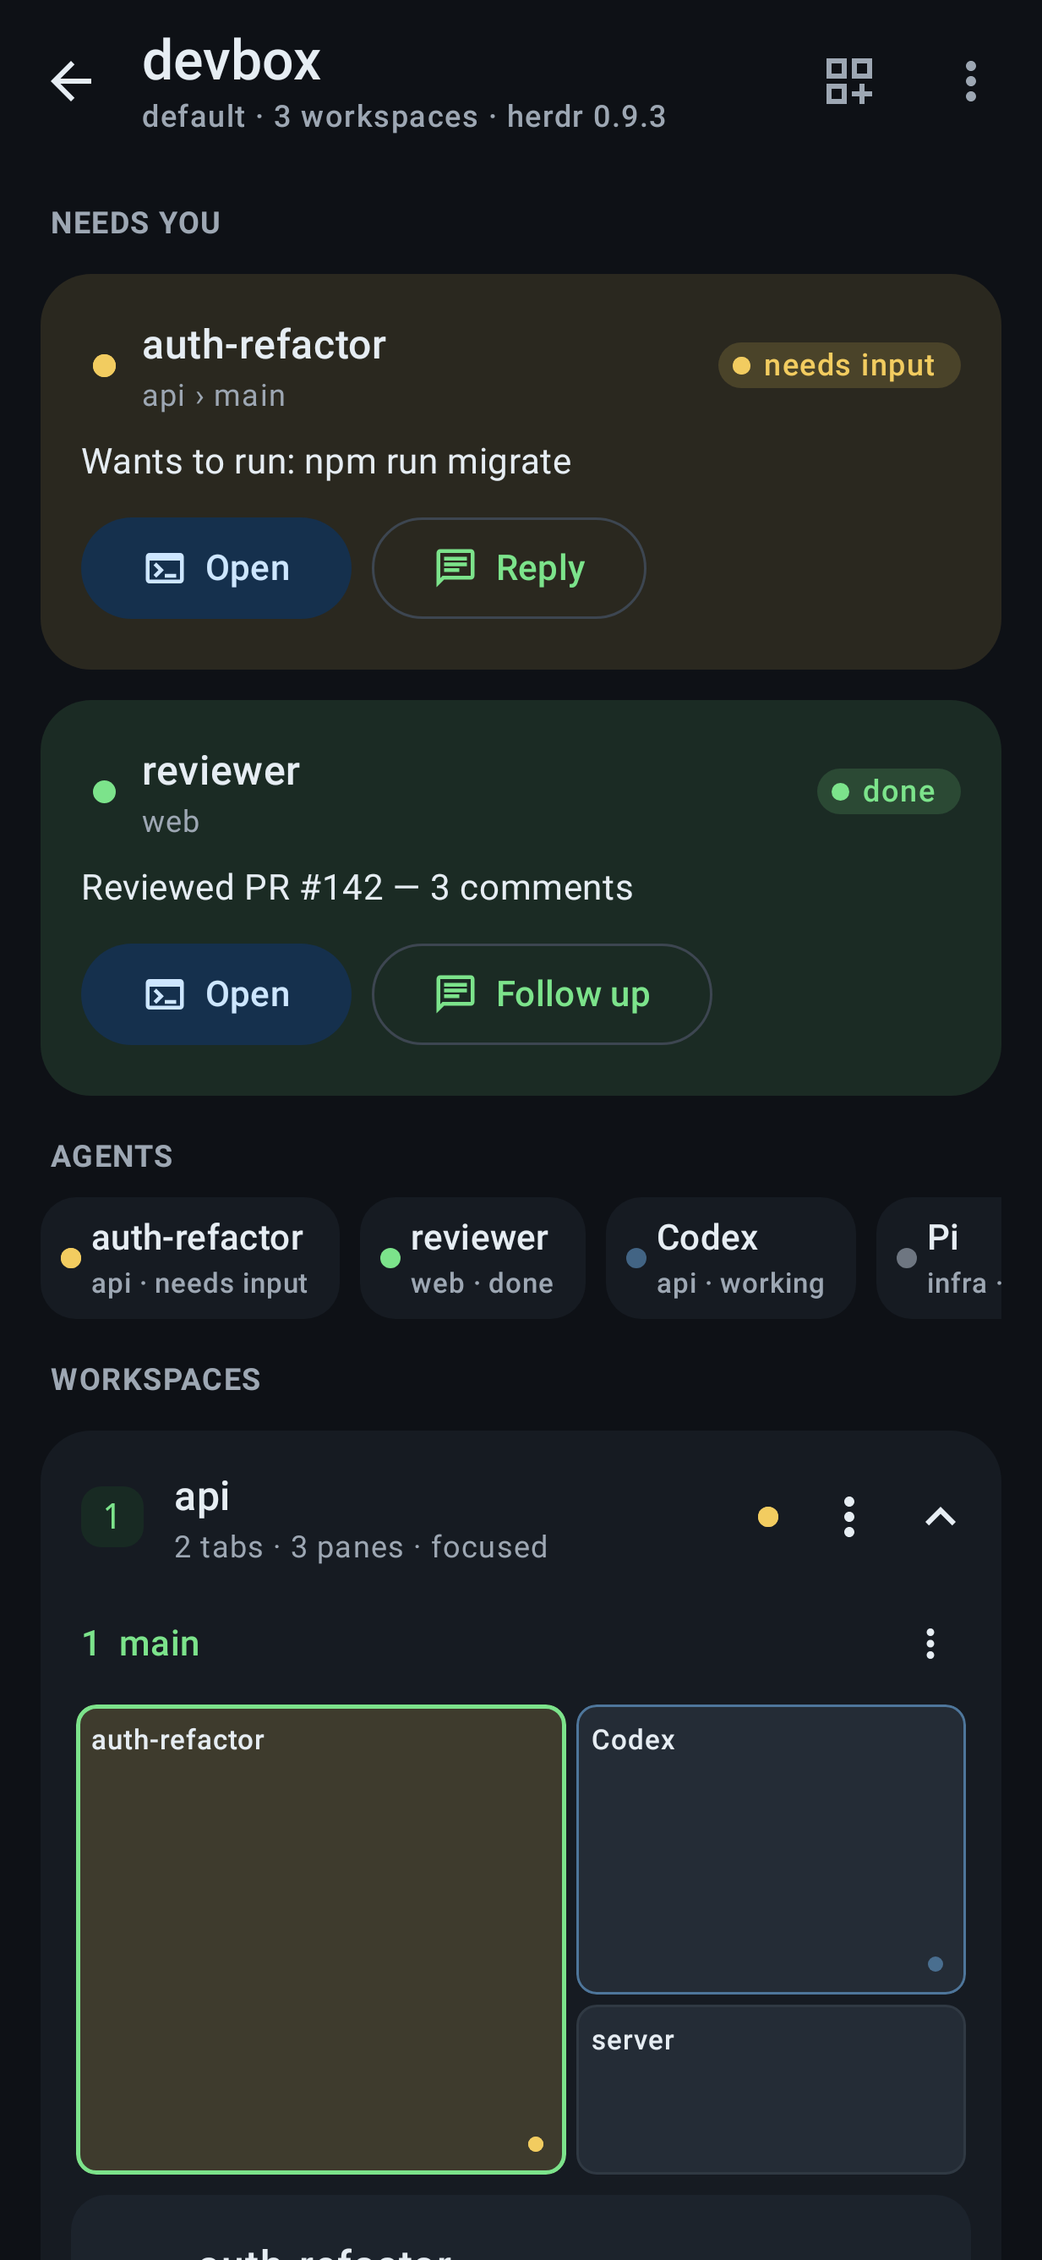
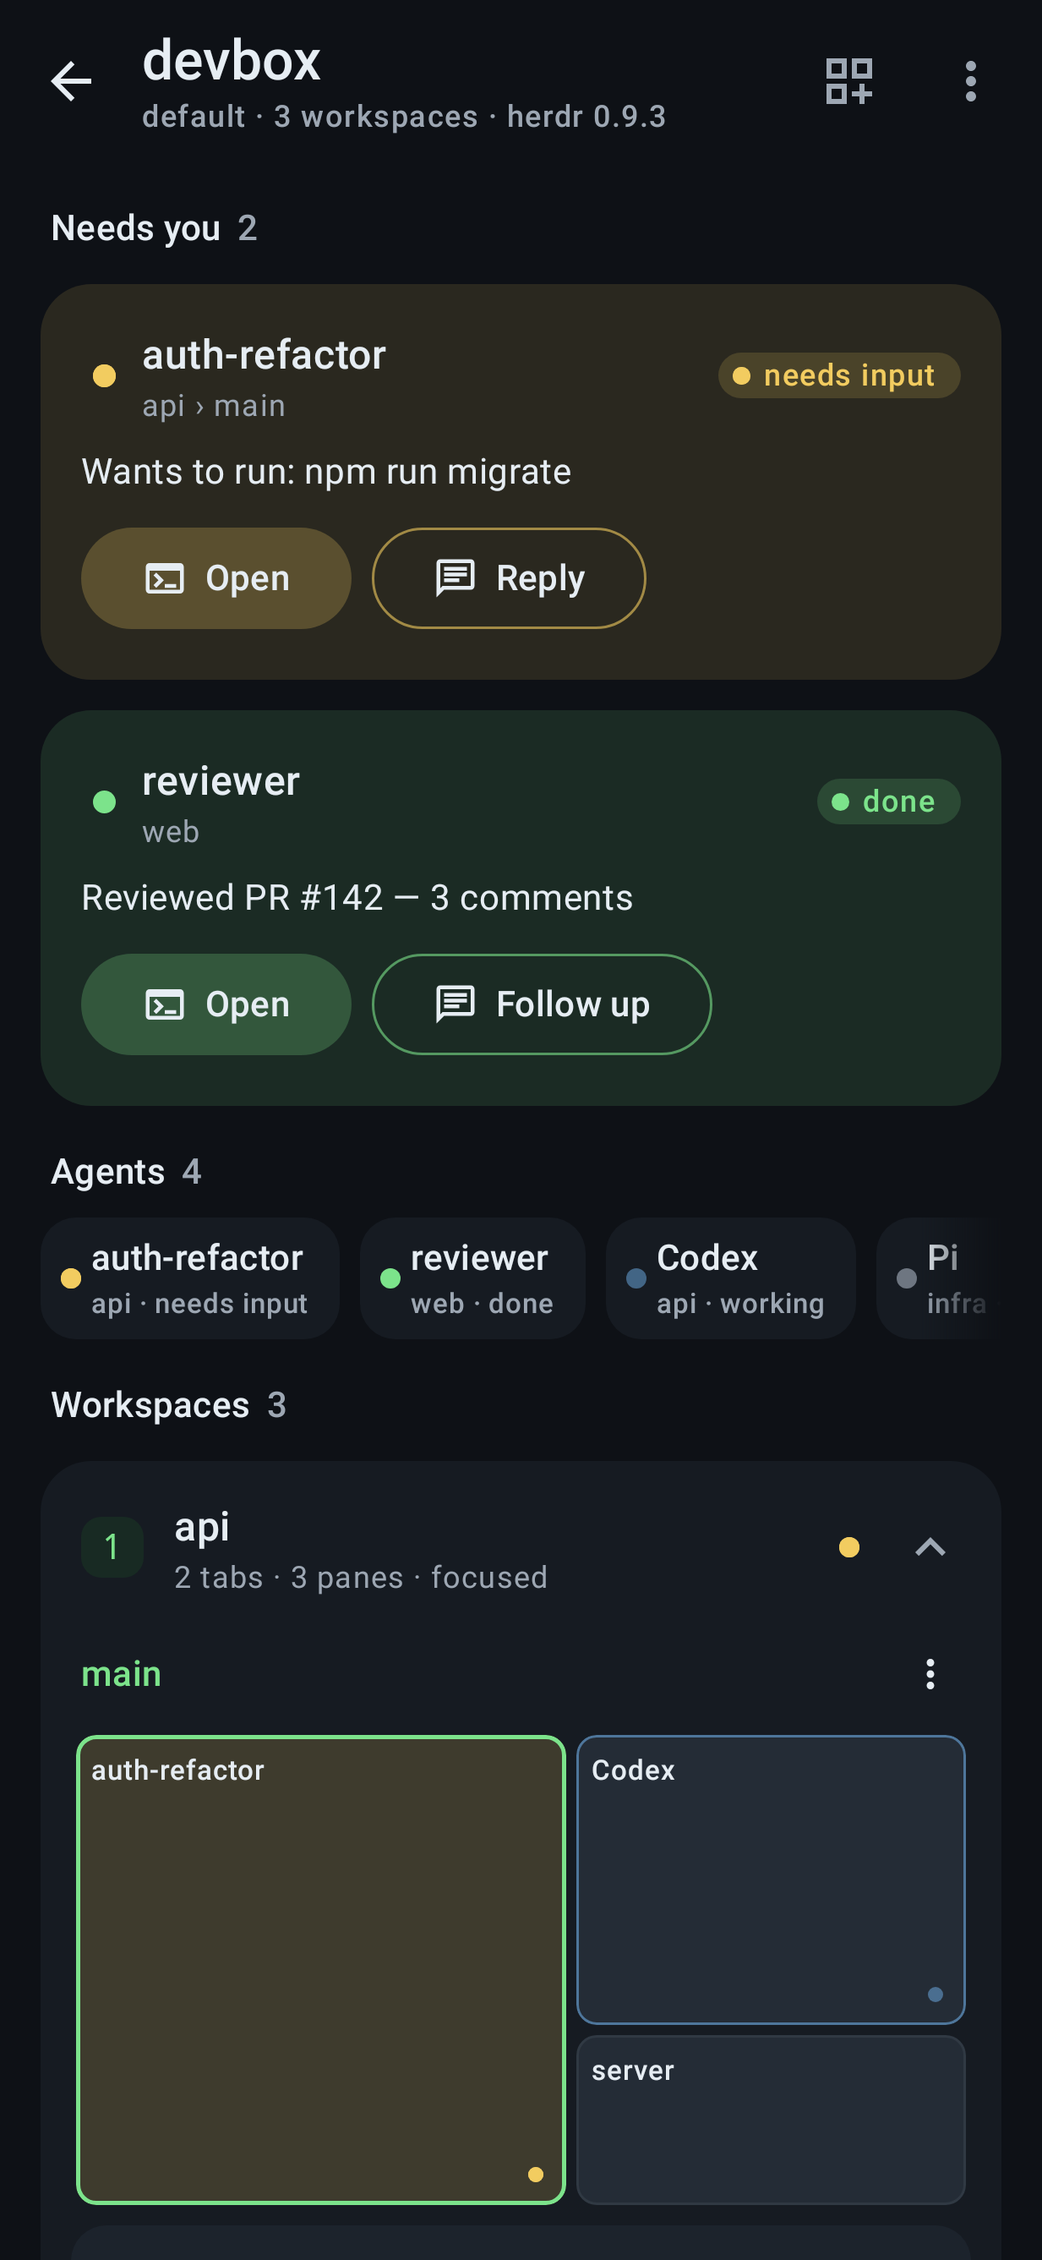
Polish session and terminal visuals
- Pluralize tab/pane/workspace counts ("1 tab · 1 pane").
- Show tabs by herdr's positional label ("Tab 2"), not the internal
  tab number, which made headers read "6  2".
- Drop redundant breadcrumb parts ("awp-aura › 1 › awp-aura").
- Keep the terminal screen dark in light mode, with light bar icons.
- Tint attention-card actions with the agent's status color.
- Workspace rows: tap to expand, long-press for actions; drop the ⋮.
- Fade the scrolling edge of the agent strip and pane switcher.
- Sentence-case section labels with counts.
- Regenerate README screenshots.

diff --git a/app/src/main/java/dev/herdroid/ui/session/SessionScreen.kt b/app/src/main/java/dev/herdroid/ui/session/SessionScreen.kt
@@ -3,6 +3,7 @@ package dev.herdroid.ui.session
 import android.widget.Toast
 import androidx.compose.animation.AnimatedVisibility
 import androidx.compose.animation.animateContentSize
+import androidx.compose.foundation.BorderStroke
 import androidx.compose.foundation.ExperimentalFoundationApi
 import androidx.compose.foundation.background
 import androidx.compose.foundation.clickable
@@ -21,6 +22,7 @@ import androidx.compose.foundation.layout.size
 import androidx.compose.foundation.lazy.LazyColumn
 import androidx.compose.foundation.lazy.LazyRow
 import androidx.compose.foundation.lazy.items
+import androidx.compose.foundation.lazy.rememberLazyListState
 import androidx.compose.foundation.shape.RoundedCornerShape
 import androidx.compose.material.icons.Icons
 import androidx.compose.material.icons.automirrored.outlined.ArrowBack
@@ -39,6 +41,7 @@ import androidx.compose.material.icons.outlined.Terminal
 import androidx.compose.material.icons.outlined.ViewAgenda
 import androidx.compose.material.icons.outlined.ViewColumn
 import androidx.compose.material.icons.outlined.Workspaces
+import androidx.compose.material3.ButtonDefaults
 import androidx.compose.material3.Card
 import androidx.compose.material3.CardDefaults
 import androidx.compose.material3.DropdownMenu
@@ -90,6 +93,7 @@ import dev.herdroid.ui.components.ConnectionPrompts
 import dev.herdroid.ui.components.EmptyState
 import dev.herdroid.ui.components.FieldSpec
 import dev.herdroid.ui.components.FormDialog
+import dev.herdroid.ui.components.fadingEdges
 import dev.herdroid.ui.components.StatusDot
 import dev.herdroid.ui.components.StatusPill
 import dev.herdroid.ui.theme.LocalStatusColors
@@ -273,20 +277,20 @@ fun SessionScreen(
         ) { (label) -> dialog = null; act("Rename") { renameWorkspace(d.workspace.workspaceId, label) } }
         is SessionDialog.CloseWorkspace -> ConfirmDialog(
             title = "Close ${d.workspace.label}?",
-            body = "Closes ${d.workspace.tabCount} tabs and ${d.workspace.paneCount} panes, stopping their processes.",
+            body = "Closes ${count(d.workspace.tabCount, "tab")} and ${count(d.workspace.paneCount, "pane")}, stopping their processes.",
             confirm = "Close workspace",
             onDismiss = { dialog = null },
         ) { act("Close workspace") { closeWorkspace(d.workspace.workspaceId) } }
         is SessionDialog.RenameTab -> FormDialog(
             title = "Rename tab",
-            fields = listOf(FieldSpec("Name", d.tab.label)),
+            fields = listOf(FieldSpec("Name", d.tab.label.takeIf { d.tab.hasCustomLabel }.orEmpty())),
             confirm = "Rename",
             requireFirst = true,
             onDismiss = { dialog = null },
         ) { (label) -> dialog = null; act("Rename") { renameTab(d.tab.tabId, label) } }
         is SessionDialog.CloseTab -> ConfirmDialog(
-            title = "Close tab ${d.tab.label}?",
-            body = "Closes ${d.tab.paneCount} panes and stops their processes.",
+            title = "Close ${d.tab.displayLabel}?",
+            body = "Closes ${count(d.tab.paneCount, "pane")} and stops their processes.",
             confirm = "Close tab",
             onDismiss = { dialog = null },
         ) { act("Close tab") { closeTab(d.tab.tabId) } }
@@ -310,7 +314,7 @@ private fun subtitle(status: ConnectionStatus, snapshot: SessionSnapshot?, conne
         ConnectionStatus.Connected -> buildString {
             append(connection.profile.session)
             snapshot?.let {
-                append(" · ").append(it.workspaces.size).append(" workspaces")
+                append(" · ").append(count(it.workspaces.size, "workspace"))
                 if (it.version.isNotBlank()) append(" · herdr ").append(it.version)
             }
         }
@@ -356,7 +360,7 @@ internal fun SessionContent(
         verticalArrangement = Arrangement.spacedBy(12.dp),
     ) {
         if (attention.isNotEmpty()) {
-            item(key = "attention-title") { SectionLabel("Needs you") }
+            item(key = "attention-title") { SectionLabel("Needs you", attention.size) }
             items(attention, key = { "att-" + it.paneId }) { agent ->
                 AttentionCard(
                     agent = agent,
@@ -370,8 +374,13 @@ internal fun SessionContent(
         if (snapshot.agents.isNotEmpty()) {
             item(key = "agents") {
                 Column(verticalArrangement = Arrangement.spacedBy(8.dp)) {
-                    SectionLabel("Agents")
-                    LazyRow(horizontalArrangement = Arrangement.spacedBy(8.dp)) {
+                    SectionLabel("Agents", snapshot.agents.size)
+                    val rowState = rememberLazyListState()
+                    LazyRow(
+                        state = rowState,
+                        modifier = Modifier.fadingEdges(rowState),
+                        horizontalArrangement = Arrangement.spacedBy(8.dp),
+                    ) {
                         items(snapshot.agentsByAttention, key = { "chip-" + it.paneId }) { agent ->
                             AgentChip(agent, snapshot.workspace(agent.workspaceId)) { onOpenPane(agent.paneId) }
                         }
@@ -379,7 +388,7 @@ internal fun SessionContent(
                 }
             }
         }
-        item(key = "ws-title") { SectionLabel("Workspaces") }
+        item(key = "ws-title") { SectionLabel("Workspaces", snapshot.workspaces.size) }
         items(snapshot.workspaces, key = { "ws-" + it.workspaceId }) { workspace ->
             val isExpanded = expanded[workspace.workspaceId]
                 ?: (workspace.focused || snapshot.workspaces.size <= 2 ||
@@ -399,15 +408,33 @@ internal fun SessionContent(
     }
 }
 
+internal fun count(n: Int, noun: String) = if (n == 1) "1 $noun" else "$n ${noun}s"
+
+/**
+ * "workspace › tab › extra", skipping parts that add nothing: the tab when it has herdr's default
+ * numeric label and is the workspace's only tab, and repeats (a cwd named like its workspace).
+ */
+internal fun breadcrumb(workspace: WorkspaceInfo?, tab: TabInfo?, extra: String? = null): String =
+    listOfNotNull(
+        workspace?.label?.takeIf { it.isNotBlank() },
+        tab?.takeIf { it.hasCustomLabel || (workspace?.tabCount ?: 0) > 1 }?.displayLabel,
+        extra?.takeIf { it.isNotBlank() },
+    ).distinct().joinToString(" › ")
+
 @Composable
-private fun SectionLabel(text: String) {
-    Text(
-        text.uppercase(),
-        style = MaterialTheme.typography.labelMedium,
-        color = MaterialTheme.colorScheme.onSurfaceVariant,
-        fontWeight = FontWeight.Bold,
-        modifier = Modifier.padding(top = 4.dp, start = 4.dp),
-    )
+private fun SectionLabel(text: String, count: Int) {
+    Row(
+        Modifier.padding(top = 4.dp, start = 4.dp),
+        horizontalArrangement = Arrangement.spacedBy(6.dp),
+        verticalAlignment = Alignment.Bottom,
+    ) {
+        Text(text, style = MaterialTheme.typography.titleSmall, fontWeight = FontWeight.SemiBold)
+        Text(
+            count.toString(),
+            style = MaterialTheme.typography.titleSmall,
+            color = MaterialTheme.colorScheme.onSurfaceVariant,
+        )
+    }
 }
 
 @Composable
@@ -431,7 +458,7 @@ private fun AttentionCard(
                 Column(Modifier.weight(1f)) {
                     Text(agent.displayName, style = MaterialTheme.typography.titleMedium)
                     Text(
-                        listOfNotNull(workspace?.label, tab?.label?.takeIf { it.isNotBlank() }).joinToString(" › "),
+                        breadcrumb(workspace, tab),
                         style = MaterialTheme.typography.bodySmall,
                         color = MaterialTheme.colorScheme.onSurfaceVariant,
                     )
@@ -441,13 +468,24 @@ private fun AttentionCard(
             agent.subtitle?.let {
                 Text(it, style = MaterialTheme.typography.bodyMedium, maxLines = 2, overflow = TextOverflow.Ellipsis)
             }
+            // Both actions take the agent's status color so they read as one pair.
             Row(horizontalArrangement = Arrangement.spacedBy(8.dp)) {
-                FilledTonalButton(onClick = onOpen) {
+                FilledTonalButton(
+                    onClick = onOpen,
+                    colors = ButtonDefaults.filledTonalButtonColors(
+                        containerColor = color.copy(alpha = 0.24f),
+                        contentColor = MaterialTheme.colorScheme.onSurface,
+                    ),
+                ) {
                     Icon(Icons.Outlined.Terminal, null, Modifier.size(18.dp))
                     Text("  Open")
                 }
                 if (agent.agentStatus == AgentStatus.BLOCKED || agent.agentStatus == AgentStatus.DONE) {
-                    OutlinedButton(onClick = onReply) {
+                    OutlinedButton(
+                        onClick = onReply,
+                        colors = ButtonDefaults.outlinedButtonColors(contentColor = MaterialTheme.colorScheme.onSurface),
+                        border = BorderStroke(1.dp, color.copy(alpha = 0.6f)),
+                    ) {
                         Icon(Icons.AutoMirrored.Outlined.Chat, null, Modifier.size(18.dp))
                         Text(if (agent.agentStatus == AgentStatus.BLOCKED) "  Reply" else "  Follow up")
                     }
@@ -501,8 +539,13 @@ private fun WorkspaceCard(
         Row(
             Modifier
                 .fillMaxWidth()
-                .clickable(onClick = onToggle)
-                .padding(start = 16.dp, end = 4.dp, top = 10.dp, bottom = 10.dp),
+                .combinedClickable(
+                    onClickLabel = if (expanded) "Collapse" else "Expand",
+                    onLongClickLabel = "Workspace actions",
+                    onLongClick = { menu = true },
+                    onClick = onToggle,
+                )
+                .padding(start = 16.dp, end = 4.dp, top = 14.dp, bottom = 14.dp),
             verticalAlignment = Alignment.CenterVertically,
         ) {
             Text(
@@ -518,7 +561,7 @@ private fun WorkspaceCard(
             Column(Modifier.weight(1f).padding(horizontal = 12.dp)) {
                 Text(workspace.label.ifBlank { "workspace ${workspace.number}" }, style = MaterialTheme.typography.titleMedium, maxLines = 1)
                 Text(
-                    "${workspace.tabCount} tabs · ${workspace.paneCount} panes" +
+                    "${count(workspace.tabCount, "tab")} · ${count(workspace.paneCount, "pane")}" +
                         if (workspace.focused) " · focused" else "",
                     style = MaterialTheme.typography.bodySmall,
                     color = MaterialTheme.colorScheme.onSurfaceVariant,
@@ -526,9 +569,14 @@ private fun WorkspaceCard(
             }
             if (workspace.agentStatus != AgentStatus.UNKNOWN && workspace.agentStatus != AgentStatus.IDLE) {
                 StatusDot(workspace.agentStatus, size = 8.dp)
+                Spacer(Modifier.size(12.dp))
             }
             Box {
-                IconButton(onClick = { menu = true }) { Icon(Icons.Outlined.MoreVert, "Workspace actions") }
+                Icon(
+                    if (expanded) Icons.Outlined.ExpandLess else Icons.Outlined.ExpandMore,
+                    null,
+                    tint = MaterialTheme.colorScheme.onSurfaceVariant,
+                )
                 DropdownMenu(expanded = menu, onDismissRequest = { menu = false }) {
                     DropdownMenuItem(
                         text = { Text("New tab") },
@@ -547,8 +595,7 @@ private fun WorkspaceCard(
                     )
                 }
             }
-            Icon(if (expanded) Icons.Outlined.ExpandLess else Icons.Outlined.ExpandMore, null)
-            Spacer(Modifier.size(8.dp))
+            Spacer(Modifier.size(12.dp))
         }
         AnimatedVisibility(expanded) {
             Column(Modifier.padding(start = 12.dp, end = 12.dp, bottom = 12.dp)) {
@@ -576,7 +623,7 @@ private fun TabSection(
     Column(verticalArrangement = Arrangement.spacedBy(6.dp)) {
         Row(verticalAlignment = Alignment.CenterVertically, modifier = Modifier.padding(start = 4.dp)) {
             Text(
-                "${tab.number}  ${tab.label.ifBlank { "tab" }}",
+                tab.displayLabel,
                 style = MaterialTheme.typography.labelLarge,
                 color = if (tab.focused) MaterialTheme.colorScheme.primary else MaterialTheme.colorScheme.onSurfaceVariant,
                 modifier = Modifier.weight(1f),

diff --git a/app/src/main/java/dev/herdroid/ui/terminal/TerminalScreen.kt b/app/src/main/java/dev/herdroid/ui/terminal/TerminalScreen.kt
@@ -73,10 +73,12 @@ import androidx.compose.ui.Alignment
 import androidx.compose.ui.Modifier
 import androidx.compose.ui.platform.LocalClipboardManager
 import androidx.compose.ui.platform.LocalContext
+import androidx.compose.ui.platform.LocalView
 import androidx.compose.ui.text.AnnotatedString
 import androidx.compose.ui.text.style.TextOverflow
 import androidx.compose.ui.unit.dp
 import androidx.compose.ui.viewinterop.AndroidView
+import androidx.core.view.WindowCompat
 import dev.herdroid.app
 import dev.herdroid.connection.ConnectionStatus
 import dev.herdroid.herdr.AgentStatus
@@ -93,13 +95,48 @@ import dev.herdroid.ui.components.FieldSpec
 import dev.herdroid.ui.components.FormDialog
 import dev.herdroid.ui.components.StatusDot
 import dev.herdroid.ui.components.StatusPill
+import dev.herdroid.ui.components.fadingEdges
 import dev.herdroid.ui.session.SheetItem
+import dev.herdroid.ui.session.breadcrumb
+import dev.herdroid.ui.theme.HerdroidTheme
 import dev.herdroid.ui.theme.Mono
 import kotlinx.coroutines.launch
 
-@OptIn(ExperimentalMaterial3Api::class)
+/**
+ * The terminal is always dark, whatever the system theme: light chrome around a dark terminal
+ * reads as two different apps.
+ */
 @Composable
 fun TerminalScreen(
+    hostId: String,
+    initialPaneId: String,
+    onBack: () -> Unit,
+    onEditHost: () -> Unit,
+) {
+    val view = LocalView.current
+    DisposableEffect(view) {
+        val window = (view.context as? Activity)?.window
+        val bars = window?.let { WindowCompat.getInsetsController(it, view) }
+        val lightStatus = bars?.isAppearanceLightStatusBars
+        val lightNavigation = bars?.isAppearanceLightNavigationBars
+        bars?.isAppearanceLightStatusBars = false
+        bars?.isAppearanceLightNavigationBars = false
+        onDispose {
+            lightStatus?.let { bars.isAppearanceLightStatusBars = it }
+            lightNavigation?.let { bars.isAppearanceLightNavigationBars = it }
+        }
+    }
+    HerdroidTheme(darkTheme = true) {
+        // Surface resets LocalContentColor, which otherwise leaks in from the app's light theme.
+        Surface(color = MaterialTheme.colorScheme.surface) {
+            TerminalScreenContent(hostId, initialPaneId, onBack, onEditHost)
+        }
+    }
+}
+
+@OptIn(ExperimentalMaterial3Api::class)
+@Composable
+private fun TerminalScreenContent(
     hostId: String,
     initialPaneId: String,
     onBack: () -> Unit,
@@ -404,10 +441,8 @@ internal fun TerminalTopBar(
                 maxLines = 1,
                 overflow = TextOverflow.Ellipsis,
             )
-            val ws = pane?.let { snapshot?.workspace(it.workspaceId)?.label }
-            val tab = pane?.let { snapshot?.tab(it.tabId)?.label }
             Text(
-                listOfNotNull(ws, tab?.takeIf { it.isNotBlank() }, pane?.shortCwd).joinToString(" › "),
+                pane?.let { breadcrumb(snapshot?.workspace(it.workspaceId), snapshot?.tab(it.tabId), it.shortCwd) }.orEmpty(),
                 style = MaterialTheme.typography.labelSmall,
                 color = MaterialTheme.colorScheme.onSurfaceVariant,
                 maxLines = 1,
@@ -454,6 +489,7 @@ internal fun PaneSwitcher(snapshot: SessionSnapshot, current: PaneInfo, onSelect
     val listState = rememberLazyListState()
     LazyRow(
         state = listState,
+        modifier = Modifier.fadingEdges(listState),
         contentPadding = PaddingValues(horizontal = 12.dp, vertical = 4.dp),
         horizontalArrangement = Arrangement.spacedBy(6.dp),
     ) {

diff --git a/app/src/main/java/dev/herdroid/ui/components/FadingEdges.kt b/app/src/main/java/dev/herdroid/ui/components/FadingEdges.kt
@@ -1,0 +1,34 @@
+package dev.herdroid.ui.components
+
+import androidx.compose.foundation.lazy.LazyListState
+import androidx.compose.ui.Modifier
+import androidx.compose.ui.draw.drawWithContent
+import androidx.compose.ui.geometry.Offset
+import androidx.compose.ui.graphics.BlendMode
+import androidx.compose.ui.graphics.Brush
+import androidx.compose.ui.graphics.Color
+import androidx.compose.ui.graphics.CompositingStrategy
+import androidx.compose.ui.graphics.graphicsLayer
+import androidx.compose.ui.unit.Dp
+import androidx.compose.ui.unit.dp
+
+/** Fades whichever horizontal edge of a lazy row still has content beyond it, hinting that it scrolls. */
+fun Modifier.fadingEdges(state: LazyListState, width: Dp = 32.dp): Modifier = this
+    .graphicsLayer { compositingStrategy = CompositingStrategy.Offscreen }
+    .drawWithContent {
+        drawContent()
+        val fade = width.toPx()
+        if (state.canScrollBackward) {
+            drawRect(
+                Brush.horizontalGradient(listOf(Color.Transparent, Color.Black), startX = 0f, endX = fade),
+                blendMode = BlendMode.DstIn,
+            )
+        }
+        if (state.canScrollForward) {
+            drawRect(
+                Brush.horizontalGradient(listOf(Color.Black, Color.Transparent), startX = size.width - fade, endX = size.width),
+                topLeft = Offset.Zero,
+                blendMode = BlendMode.DstIn,
+            )
+        }
+    }

diff --git a/app/src/test/java/dev/herdroid/herdr/ModelsTest.kt b/app/src/test/java/dev/herdroid/herdr/ModelsTest.kt
@@ -38,4 +38,14 @@ class ModelsTest {
         assertEquals(AgentStatus.UNKNOWN, snapshot.agents[1].agentStatus)
         assertEquals("w1:p1", snapshot.agentsByAttention.first().paneId)
     }
+
+    @Test
+    fun tabLabelUsesPositionNotInternalNumber() {
+        // herdr 0.9.3: tab id w1E:t6 sits second, so label is "2" while number is 6.
+        val positional = TabInfo(tabId = "w1E:t6", workspaceId = "w1E", number = 6, label = "2")
+        assertEquals("Tab 2", positional.displayLabel)
+        assertEquals(false, positional.hasCustomLabel)
+        val named = TabInfo(tabId = "w1:t1", workspaceId = "w1", number = 1, label = "logs")
+        assertEquals("logs", named.displayLabel)
+    }
 }

diff --git a/app/src/main/java/dev/herdroid/herdr/Models.kt b/app/src/main/java/dev/herdroid/herdr/Models.kt
@@ -45,7 +45,13 @@ data class TabInfo(
     val focused: Boolean = false,
     @SerialName("pane_count") val paneCount: Int = 0,
     @SerialName("agent_status") val agentStatus: AgentStatus = AgentStatus.UNKNOWN,
-)
+) {
+    /** herdr labels unnamed tabs with their position ("1", "2"); `number` is an internal id, not shown. */
+    val hasCustomLabel: Boolean get() = label.isNotBlank() && label.toIntOrNull() == null
+
+    val displayLabel: String
+        get() = if (hasCustomLabel) label else "Tab ${label.ifBlank { number.toString() }}"
+}
 
 @Serializable
 data class PaneScrollInfo(
